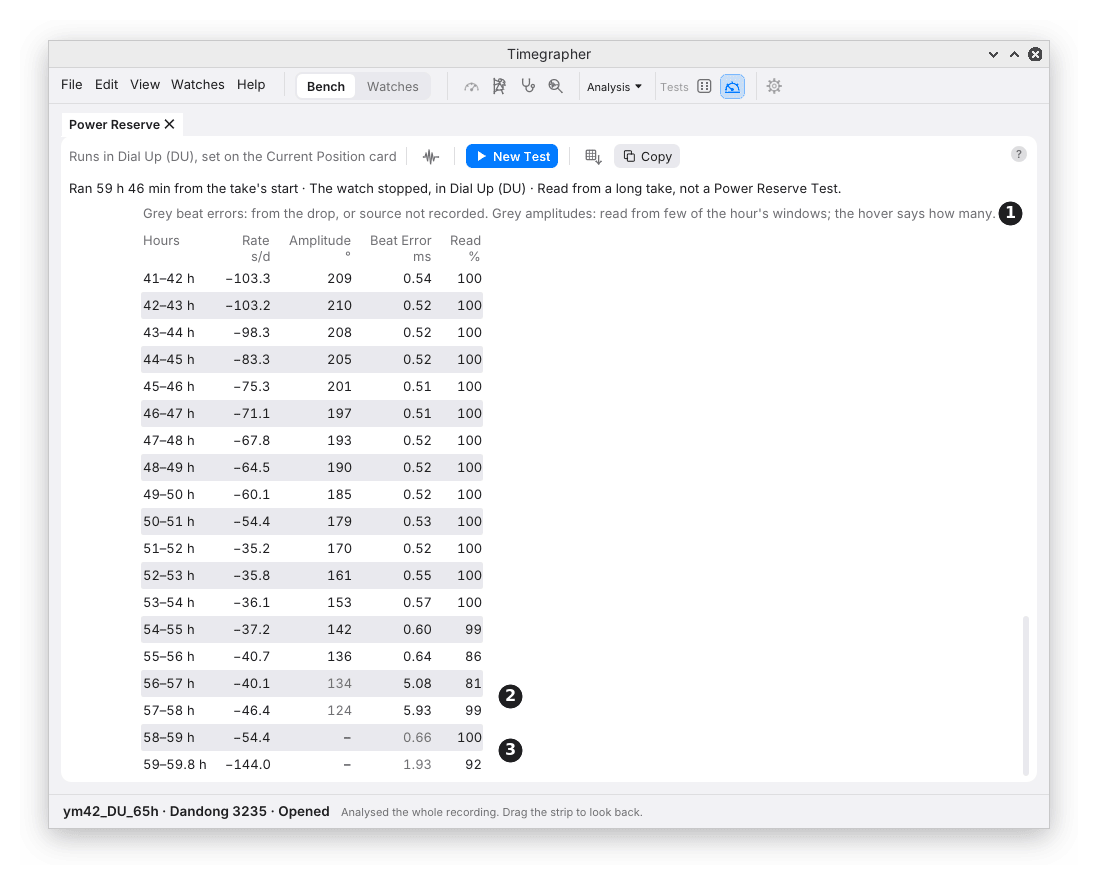
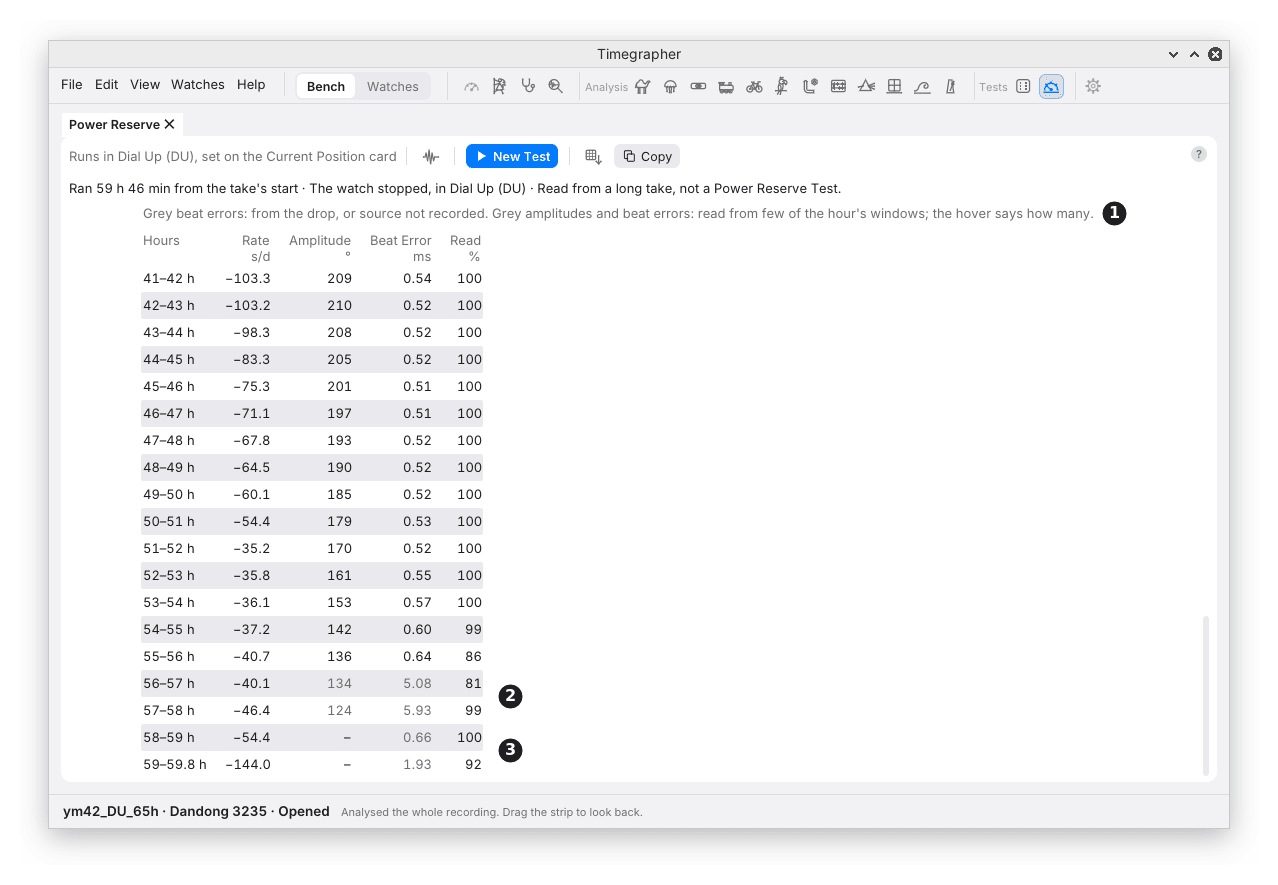
User guide: Power Reserve figures after grey beat errors (#1441)
Both figures redrawn from main. The table's beat errors at 56-58 h are
now grey, and the key line names them; the table figure is wider so the
key fits. Chapter 21 says a beat error from few windows is grey too.

Claude-Session: https://claude.ai/code/session_01QSxqxVf77FmFmJZGMCy8kd

diff --git a/docs/user-guide/21-power-reserve-test.md b/docs/user-guide/21-power-reserve-test.md
@@ -70,9 +70,9 @@ Analysis Only picked.
 Grey in the table marks a figure that stands on less than the rest, and
 the key over the table says so. A beat error from the drop, where the
 unlock isn't found, or whose source wasn't recorded, is grey, and its
-hover names its source. An amplitude read from under 60% of the hour's
-2 s windows is grey too, and its hover says how many ("read from 459 of
-1798 windows"). An amplitude read from under a tenth of them isn't given
+hover names its source. An amplitude or beat error read from under 60%
+of the hour's 2 s windows is grey too, and its hover says how many
+("read from 459 of 1798 windows"). An amplitude read from under a tenth of them isn't given
 at all: the cell shows a dash, and the amplitude chart stops before that
 hour. A few windows are too few to stand for an hour; the figure they
 give can be far from the truth.
@@ -113,13 +113,14 @@ keeps on the wrist depends on how far down it is allowed to run.
 | Mark | Part | What it shows |
 | --- | --- | --- |
 | 1 | The key | What grey means in each column. |
-| 2 | A grey amplitude | Read from under 60% of the hour's windows; the hover gives the count. |
+| 2 | A grey amplitude and beat error | Read from under 60% of the hour's windows; the hover gives the count. |
 | 3 | A dash | An amplitude withheld: under a tenth of the hour's windows gave one. The beat error beside it is from the drop, so grey. |
 
 **Scrolled to its end,** the same table shows the watch's last hours.
 From 56 hours the beats grow faint, and the unlock that the amplitude is
 timed from is found in fewer of the hour's windows: 134° and 124° are
-grey. In the last two hours it is found in too few to give a figure,
+grey, and so are the beat errors of 5.08 and 5.93 ms beside them, timed
+from the same few windows. In the last two hours it is found in too few to give a figure,
 and the cells show a dash. The rate, timed from the whole beat, is still
 read: −54.4 s/d, then −144.0 s/d in the last part hour as the watch
 stops. Without the floor, those few windows gave an amplitude near 290°
